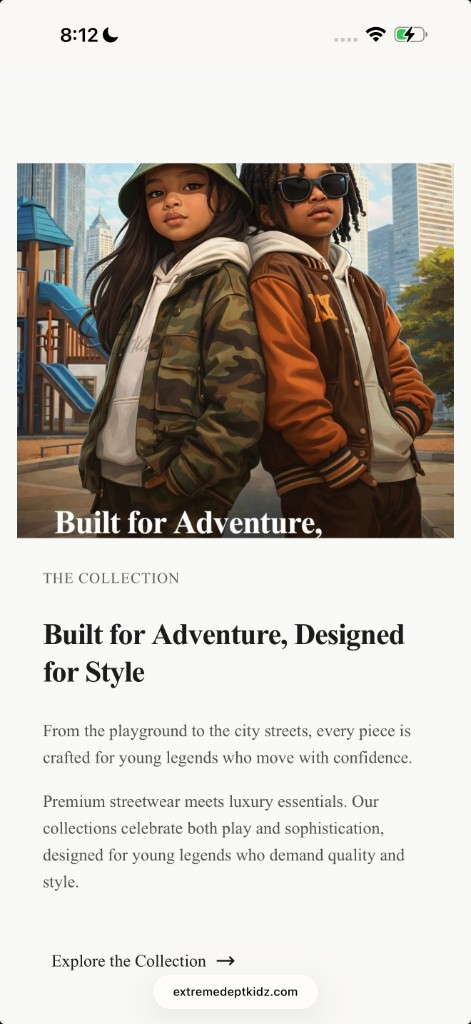
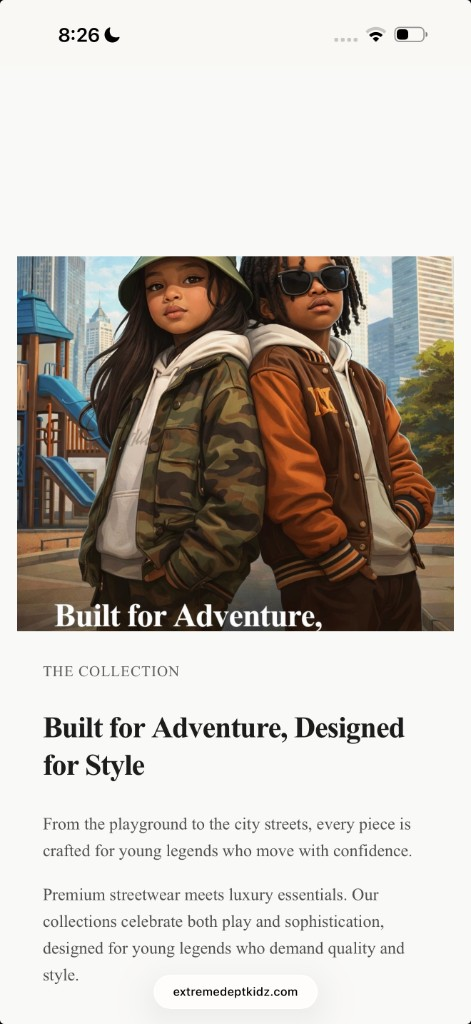
refactor: fix editorial image and redesign collections page with premium aesthetic
- Replace editorial cover image with clean version (no text overlay)
- Adjust image positioning to show heads clearly using object-[center_top]
- Redesign Collections page with Ralph Lauren-inspired premium aesthetic
- Use consistent typography components from design system
- Add sophisticated hero section with generous whitespace
- Implement elegant collection cards with subtle animations
- Ensure all typography follows design system hierarchy
- Remove unused imports and fix linting errors

diff --git a/app/collections/CollectionsPageClient.tsx b/app/collections/CollectionsPageClient.tsx
@@ -1,0 +1,189 @@
+"use client";
+
+import * as React from "react";
+import Link from "next/link";
+import Image from "next/image";
+import { m } from "framer-motion";
+import { Container } from "@/components/ui/container";
+import { H1, H2, H3, Body, Caption } from "@/components/ui/typography";
+
+interface CollectionItem {
+  id: string;
+  name: string;
+  slug: string;
+  description?: string;
+  image?: string;
+}
+
+interface CollectionsPageClientProps {
+  items: CollectionItem[];
+}
+
+/**
+ * Premium Collections Page - Ralph Lauren-inspired aesthetic
+ * 
+ * Features:
+ * - Sophisticated typography hierarchy
+ * - Generous whitespace
+ * - Elegant card designs with subtle animations
+ * - Premium feel with refined details
+ */
+export function CollectionsPageClient({ items }: CollectionsPageClientProps): JSX.Element {
+  return (
+    <div className="min-h-screen bg-cream-50">
+      {/* Hero Section */}
+      <section className="pt-20 md:pt-28 pb-12 md:pb-16 lg:pb-20">
+        <Container size="lg">
+          <m.div
+            initial={{ opacity: 0, y: 20 }}
+            animate={{ opacity: 1, y: 0 }}
+            transition={{ duration: 0.6, ease: "easeOut" }}
+            className="text-center max-w-3xl mx-auto mb-16 md:mb-20"
+          >
+            <Caption className="text-charcoal-500 uppercase tracking-[0.15em] mb-4 md:mb-6">
+              Discover Our Collections
+            </Caption>
+            <H1 className="mb-6 md:mb-8">
+              Our Collections
+            </H1>
+            <Body className="text-charcoal-600 max-w-2xl mx-auto">
+              Discover thoughtfully curated collections designed for every moment
+              and occasion. Each piece is crafted with uncompromising attention to
+              detail and premium materials.
+            </Body>
+          </m.div>
+        </Container>
+      </section>
+
+      {/* Collections Grid */}
+      <section className="pb-20 md:pb-28 lg:pb-32">
+        <Container size="lg">
+          {items.length === 0 ? (
+            <div className="text-center py-20 px-6 rounded-lg bg-cream-100 border border-cream-200 max-w-md mx-auto">
+              <p className="text-charcoal-700 text-lg font-medium mb-2">
+                No collections yet
+              </p>
+              <p className="text-charcoal-600">
+                Add categories in Admin → Categories. Each active category appears
+                here and links to /collections/[slug].
+              </p>
+            </div>
+          ) : (
+            <div className="grid grid-cols-1 md:grid-cols-2 lg:grid-cols-3 gap-8 md:gap-10 lg:gap-12">
+              {items.map((item, index) => (
+                <CollectionCard key={item.id} item={item} index={index} />
+              ))}
+            </div>
+          )}
+        </Container>
+      </section>
+
+      {/* Call to Action Section */}
+      {items.length > 0 && (
+        <section className="py-16 md:py-20 border-t border-cream-200">
+          <Container size="lg">
+            <m.div
+              initial={{ opacity: 0, y: 20 }}
+              whileInView={{ opacity: 1, y: 0 }}
+              viewport={{ once: true, margin: "-100px" }}
+              transition={{ duration: 0.6 }}
+              className="text-center max-w-2xl mx-auto"
+            >
+              <H2 className="mb-4">
+                Explore Premium Style
+              </H2>
+              <Body className="text-charcoal-600">
+                Each collection represents our commitment to quality, style, and
+                timeless design for young legends.
+              </Body>
+            </m.div>
+          </Container>
+        </section>
+      )}
+    </div>
+  );
+}
+
+interface CollectionCardProps {
+  item: CollectionItem;
+  index: number;
+}
+
+function CollectionCard({ item, index }: CollectionCardProps): JSX.Element {
+  return (
+    <m.article
+      initial={{ opacity: 0, y: 30 }}
+      whileInView={{ opacity: 1, y: 0 }}
+      viewport={{ once: true, margin: "-50px" }}
+      transition={{
+        duration: 0.5,
+        delay: index * 0.1,
+        ease: [0.22, 1, 0.36, 1],
+      }}
+      className="group"
+    >
+      <Link
+        href={`/collections/${item.slug}`}
+        className="block focus:outline-none focus:ring-2 focus:ring-navy-500 focus:ring-offset-2 focus:ring-offset-cream-50 focus:rounded-xl"
+        aria-label={`View ${item.name} collection`}
+      >
+        {/* Image Container */}
+        <div className="relative aspect-[3/4] mb-6 overflow-hidden bg-cream-200 rounded-sm">
+          {item.image ? (
+            <>
+              <Image
+                src={item.image}
+                alt={item.name}
+                fill
+                className="object-cover transition-transform duration-700 ease-out group-hover:scale-105"
+                sizes="(max-width: 768px) 100vw, (max-width: 1024px) 50vw, 33vw"
+                loading={index < 3 ? "eager" : "lazy"}
+                quality={85}
+              />
+              {/* Subtle overlay on hover */}
+              <div className="absolute inset-0 bg-charcoal-900/0 group-hover:bg-charcoal-900/5 transition-colors duration-500" />
+            </>
+          ) : (
+            <div className="w-full h-full bg-gradient-to-br from-cream-200 via-cream-100 to-cream-200 flex items-center justify-center">
+              <span className="text-charcoal-400 text-sm font-medium uppercase tracking-wider">
+                {item.name}
+              </span>
+            </div>
+          )}
+        </div>
+
+        {/* Content */}
+        <div className="space-y-2">
+          <H3 className="group-hover:text-navy-900 transition-colors duration-300">
+            {item.name}
+          </H3>
+          {item.description && (
+            <Body className="text-charcoal-600">
+              {item.description}
+            </Body>
+          )}
+          {/* Subtle underline on hover */}
+          <div className="flex items-center gap-2 pt-2">
+            <span className="text-charcoal-500 text-xs uppercase tracking-wider font-medium">
+              Explore
+            </span>
+            <svg
+              className="w-4 h-4 text-charcoal-400 group-hover:text-charcoal-600 group-hover:translate-x-1 transition-all duration-300"
+              fill="none"
+              viewBox="0 0 24 24"
+              stroke="currentColor"
+              strokeWidth={1.5}
+              aria-hidden="true"
+            >
+              <path
+                strokeLinecap="round"
+                strokeLinejoin="round"
+                d="M17.25 8.25L21 12m0 0l-3.75 3.75M21 12H3"
+              />
+            </svg>
+          </div>
+        </div>
+      </Link>
+    </m.article>
+  );
+}

diff --git a/app/collections/page.tsx b/app/collections/page.tsx
@@ -1,9 +1,6 @@
 import type { Metadata } from "next";
-import Link from "next/link";
-import Image from "next/image";
-import { Container } from "@/components/ui/container";
-import { H1, Body } from "@/components/ui/typography";
 import { getAllCategories } from "@/lib/db";
+import { CollectionsPageClient } from "./CollectionsPageClient";
 
 export const metadata: Metadata = {
   title: "Collections | Extreme Dept Kidz",
@@ -39,12 +36,11 @@ function isPlaceholderImage(url: string | undefined): boolean {
 export const revalidate = 60;
 
 /**
- * Collections Index Page
+ * Collections Index Page - Premium Ralph Lauren-inspired design
  *
  * Shows admin-created categories (Boys, Girls, Premium Kidswear, etc.) so
  * categories you add in Admin → Categories appear here. Each card links to
  * /collections/[slug], which loads products by category slug.
- * No placeholder image: cards show a styled block unless the category has a real image.
  */
 export default async function CollectionsPage(): Promise<JSX.Element> {
   const categories = await getAllCategories();
@@ -61,67 +57,5 @@ export default async function CollectionsPage(): Promise<JSX.Element> {
     };
   });
 
-  return (
-    <div className="min-h-screen bg-cream-50 pt-16 xs:pt-18 sm:pt-20 md:pt-24 pb-12 sm:pb-16">
-      <Container size="lg">
-        <div className="text-center mb-12 md:mb-16">
-          <H1 className="text-charcoal-900 mb-4 text-2xl xs:text-3xl sm:text-4xl">
-            Our Collections
-          </H1>
-          <Body className="text-lg text-charcoal-600 max-w-2xl mx-auto">
-            Discover thoughtfully curated collections designed for every moment
-            and occasion. Each piece is crafted with uncompromising attention to
-            detail.
-          </Body>
-        </div>
-
-        {items.length === 0 ? (
-          <div className="text-center py-16 px-6 rounded-lg bg-cream-100 border border-cream-200">
-            <p className="text-charcoal-700 text-lg font-medium mb-2">
-              No collections yet
-            </p>
-            <p className="text-charcoal-600 max-w-md mx-auto">
-              Add categories in Admin → Categories. Each active category appears
-              here and links to /collections/[slug].
-            </p>
-          </div>
-        ) : (
-        <div className="grid grid-cols-1 md:grid-cols-2 lg:grid-cols-3 gap-6 md:gap-8 lg:gap-10">
-          {items.map((item) => (
-            <Link
-              key={item.id}
-              href={`/collections/${item.slug}`}
-              className="group block"
-            >
-              <div className="relative aspect-[4/5] rounded-lg overflow-hidden bg-cream-200 mb-4">
-                {item.image ? (
-                  <Image
-                    src={item.image}
-                    alt={item.name}
-                    fill
-                    className="object-cover transition-transform duration-300 group-hover:scale-105"
-                    sizes="(max-width: 768px) 100vw, (max-width: 1024px) 50vw, 33vw"
-                    loading="lazy"
-                  />
-                ) : null}
-                <div className="absolute inset-0 bg-gradient-to-t from-charcoal-900/70 to-transparent opacity-0 group-hover:opacity-100 transition-opacity duration-300" />
-                <div className="absolute bottom-0 left-0 right-0 p-6">
-                  <h2 className="font-serif text-2xl md:text-3xl font-semibold text-cream-50 drop-shadow-md">
-                    {item.name}
-                  </h2>
-                </div>
-              </div>
-              {item.description && (
-                <Body className="text-charcoal-700 text-center">
-                  {item.description}
-                </Body>
-              )}
-            </Link>
-          ))}
-        </div>
-        )}
-      </Container>
-    </div>
-  );
+  return <CollectionsPageClient items={items} />;
 }
-

diff --git a/components/home/EditorialSection.tsx b/components/home/EditorialSection.tsx
@@ -19,7 +19,7 @@ export function EditorialSection(): JSX.Element {
         <div className="grid grid-cols-1 lg:grid-cols-5 gap-0 lg:gap-0">
           {/* Image Side - 60% */}
           <m.div
-            className="relative lg:col-span-3 h-[300px] xs:h-[350px] sm:h-[400px] md:h-[500px] lg:h-[600px] xl:h-[700px]"
+            className="relative lg:col-span-3 h-[300px] xs:h-[350px] sm:h-[400px] md:h-[500px] lg:h-[600px] xl:h-[700px] overflow-hidden"
             initial={{ opacity: 0, x: -30 }}
             whileInView={{ opacity: 1, x: 0 }}
             viewport={{ once: true, margin: "-100px" }}
@@ -29,11 +29,12 @@ export function EditorialSection(): JSX.Element {
               src="/editorial-cover-adventure-style.png"
               alt="Built for Adventure, Designed for Style - Premium streetwear for young legends"
               variant="gallery"
-              className="object-cover w-full h-full"
+              className="object-cover object-[center_top] w-full h-full"
               fill
               quality={90}
               useIntersectionObserver={false}
               isLCP={false}
+              sizes="(max-width: 1024px) 100vw, 60vw"
             />
           </m.div>
 
